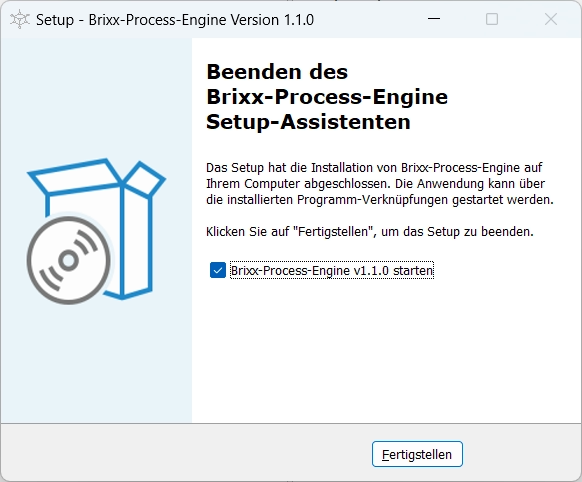
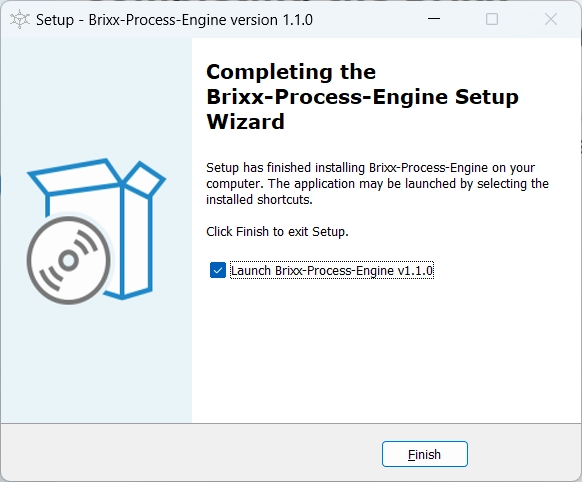
Update documentation

diff --git a/brixx-process-engine/README.md b/brixx-process-engine/README.md
@@ -1,4 +1,4 @@
-<link href="http//netdna.bootstrapcdn.com/font-awesome/3.2.1/css/font-awesome.css" rel="stylesheet">
+<link rel="stylesheet" href="https://cdnjs.cloudflare.com/ajax/libs/font-awesome/6.4.0/css/all.min.css" integrity="sha512-iecdLmaskl7CVkqkXNQ/ZH/XLlvWZOJyj7Yy7tcenmpD1ypASozpmT/E0iPtmFIB46ZmdtAc9eNBvH0H/ZpiBw==" crossorigin="anonymous" referrerpolicy="no-referrer" />
 
 # Brixx-Process-Engine
 
@@ -50,11 +50,44 @@ With our workflow management system, all types of processes and workflows can be
 With [Brixx-Process-Script](../brixx-process-script/README.md), processes and workflows can be created requirement-oriented and integrated into web applications with HTML and JavaScript. This allows applications with the Four Eyes
 Principle (Two-man rule), multi-level forms, or web applications for processing with different actors as an example to be created quickly and easily.
 
--   [Brixx-Process-Engine installieren](#setup)
+-   [Install Brixx-Process-Engine](#setup)
+    -   [Windows installer](#windows)
 -   [Brixx-Process-Engine Referenz](#reference)
 -   [Downloads](#downloads)
 
-# <div id='setup' /> Brixx-Process-Engine installieren
+# <div id='setup' /> Install Brixx-Process-Engine
+
+## <div id='windows' /> <i class="fa-brands fa-windows"></i> Windows Installer
+
+<img src="../assets/images/brixx-process-engine-installer-01.webp" style="margin-bottom: -5px; width: 270px;" />
+
+Select [OK]
+
+<img src="../assets/images/brixx-process-engine-installer-02.webp" style="margin-bottom: -5px; width: 450px;" />
+
+Select [Next]
+
+<img src="../assets/images/brixx-process-engine-installer-03.webp" style="margin-bottom: -5px; width: 450px;" />
+
+Select [Next]
+
+<img src="../assets/images/brixx-process-engine-installer-04.webp" style="margin-bottom: -5px; width: 450px;" />
+
+Select [Imstall]
+
+<img src="../assets/images/brixx-process-engine-installer-05.webp" style="margin-bottom: -5px; width: 450px;" />
+
+Installation in progress ...
+
+<img src="../assets/images/brixx-process-engine-installer-06.webp" style="margin-bottom: -5px; width: 450px;" />
+
+Select [Finish]
+
+After installation, the Brixx Process Engine is available for development at `http://localhost:5000` and can be checked at `http://localhost:5000/brixx/heartbeat`.
+
+<img src="../assets/images/brixx-process-engine-power-shell.webp" style="margin-bottom: -5px; width: 600px;" />
+
+Brixx-Process-Engine in Windows Terminal (PowerShell)
 
 # <div id='reference' /> Brixx-Process-Engine Referenz
 

diff --git a/brixx-process-script/README.md b/brixx-process-script/README.md
@@ -40,11 +40,11 @@ Für die Prozess-Erstellung und -Verarbeitung verwenden wir die [Brixx Prozess E
 
 Installation abgeschlossen - Windows-Installer
 
-Nach der Installation steht die Prozess Engine unter http://localhost:5000 für die Entwicklung zur Verfügung und kann mit http://localhost:5000/brixx/heartbeat überprüft werden.
+Nach der Installation steht die Brixx Prozess Engine unter `http://localhost:5000` für die Entwicklung zur Verfügung und kann mit `http://localhost:5000/brixx/heartbeat` überprüft werden.
 
 <img src="../assets/images/brixx-process-engine-power-shell.webp" style="margin-bottom: -5px; width: 600px;" />
 
-Brixx Prozess Script im Windows Terminal (PowerShell)
+Brixx-Process-Engine im Windows Terminal (PowerShell)
 
 ### Brixx BPMN-Editor
 Anschließend erstellen wir einen Benutzer-Login Prozess und verwenden das Prozessmodell aus der BPMN Datei [`brixx-login-process.bpmn`](../assets/downloads/brixx-login-process.bpmn) Wir öffnen die Datei im [Brixx BPMN-Editor](../brixx-bpmn-editor/README.md) und veröffentlichen für das Prozessmodell als Geschäftsprozess in der Brixx Prozess Engine.

diff --git a/brixx-bpmn-editor/README.md b/brixx-bpmn-editor/README.md
@@ -55,11 +55,11 @@ Installation in progress ...
 
 Select [Finish]
 
-Nach der Installation steht der BPMN-Editor unter http://localhost:3000 zur Verfügung und wird im Standard-Browser geöffnet. 
+After installation, the Brixx BPMN-Editor is available at `http://localhost:3000` and opens in the default browser.
  
 <img src="../assets/images/bpmn-editor-power-shell.webp" style="margin-bottom: -5px; width: 600px;" />
 
-Brixx BPMN-Editor im Windows Terminal (PowerShell)
+Brixx BPMN-Editor in Windows Terminal (PowerShell)
 
 # <div id='tutorial' /> Brixx BPMN-Editor Tutorial
 
